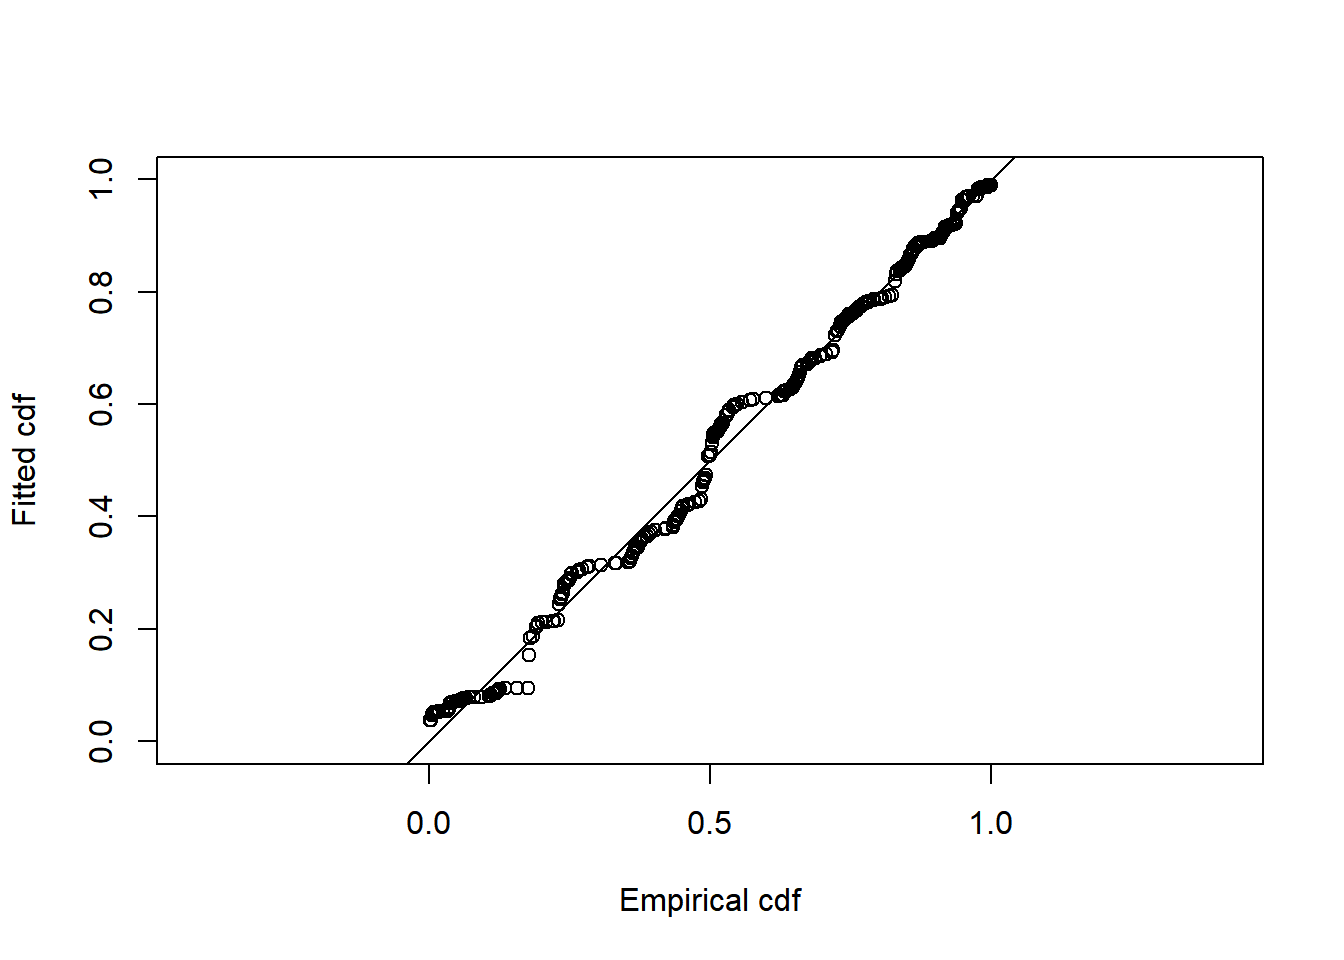
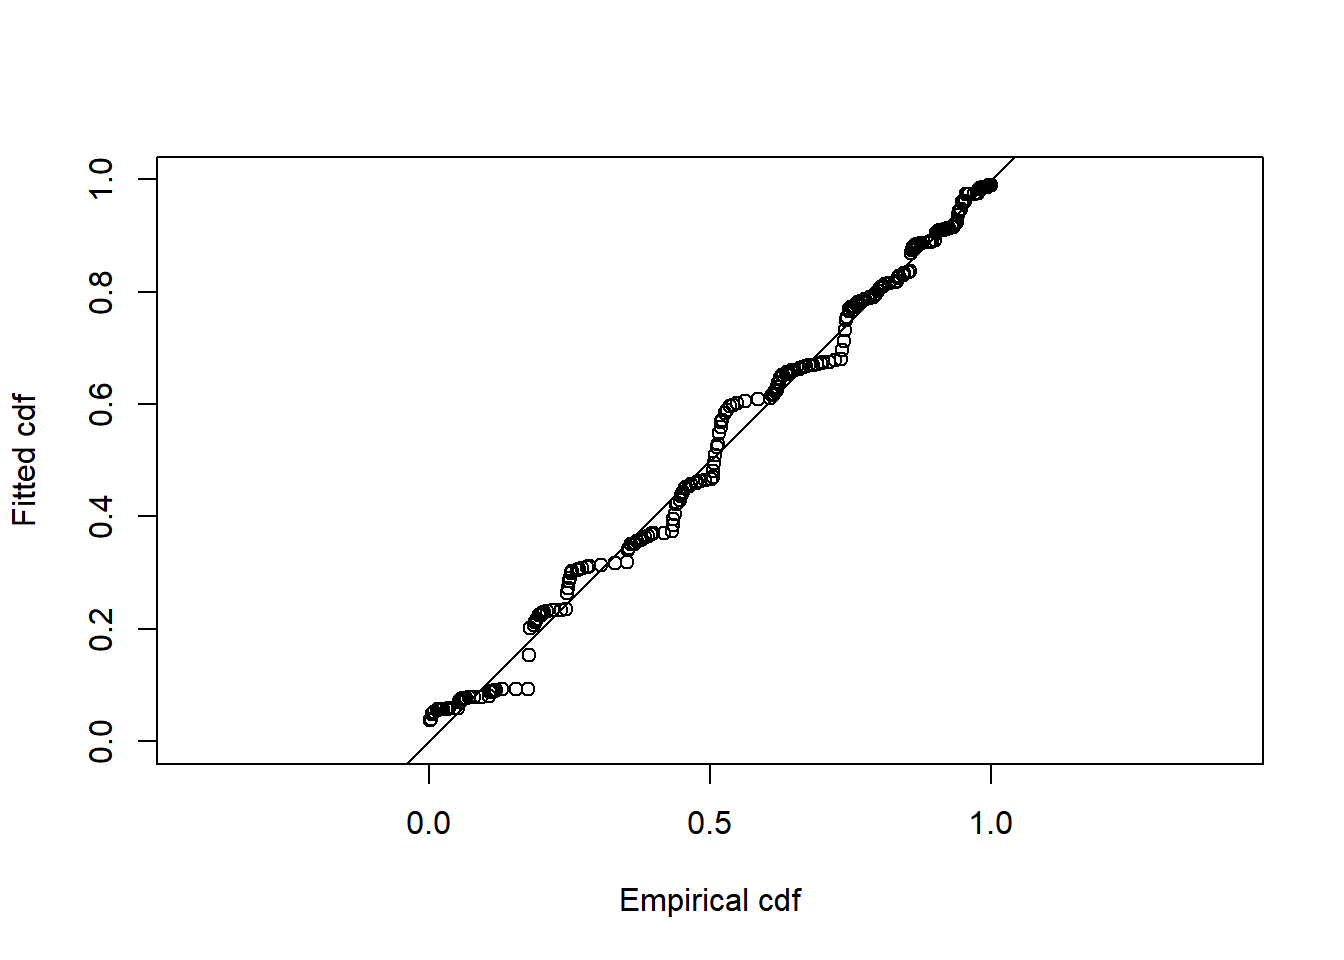
reports

diff --git a/docs/DelfinesComunes.html b/docs/DelfinesComunes.html
@@ -175,7 +175,11 @@ div.csl-indent {
   <li><a href="#efecto-de-tamaño-grupal" id="toc-efecto-de-tamaño-grupal" class="nav-link" data-scroll-target="#efecto-de-tamaño-grupal"><span class="header-section-number">3.6.3</span> Efecto de tamaño grupal</a></li>
   <li><a href="#efecto-de-embarcación" id="toc-efecto-de-embarcación" class="nav-link" data-scroll-target="#efecto-de-embarcación"><span class="header-section-number">3.6.4</span> Efecto de embarcación</a></li>
   </ul></li>
-  <li><a href="#conclusión-de-función-de-detección" id="toc-conclusión-de-función-de-detección" class="nav-link" data-scroll-target="#conclusión-de-función-de-detección"><span class="header-section-number">3.7</span> Conclusión de función de detección</a></li>
+  <li><a href="#conclusión-de-función-de-detección" id="toc-conclusión-de-función-de-detección" class="nav-link" data-scroll-target="#conclusión-de-función-de-detección"><span class="header-section-number">3.7</span> Conclusión de función de detección</a>
+  <ul class="collapse">
+  <li><a href="#qq-plots" id="toc-qq-plots" class="nav-link" data-scroll-target="#qq-plots"><span class="header-section-number">3.7.1</span> QQ plots</a></li>
+  <li><a href="#estimaciones-con-los-2-modelos" id="toc-estimaciones-con-los-2-modelos" class="nav-link" data-scroll-target="#estimaciones-con-los-2-modelos"><span class="header-section-number">3.7.2</span> Estimaciones con los 2 modelos</a></li>
+  </ul></li>
   </ul></li>
   <li><a href="#density-surface-models" id="toc-density-surface-models" class="nav-link" data-scroll-target="#density-surface-models"><span class="header-section-number">4</span> Density surface models</a></li>
   <li><a href="#referencias" id="toc-referencias" class="nav-link" data-scroll-target="#referencias"><span class="header-section-number">5</span> Referencias</a></li>
@@ -218,91 +222,99 @@ div.csl-indent {
 <tr class="header">
 <th style="text-align: right;" data-quarto-table-cell-role="th">Ano</th>
 <th style="text-align: right;" data-quarto-table-cell-role="th">Spring</th>
-<th style="text-align: right;" data-quarto-table-cell-role="th">Summer</th>
 <th style="text-align: right;" data-quarto-table-cell-role="th">Fall</th>
 <th style="text-align: right;" data-quarto-table-cell-role="th">Winter</th>
+<th style="text-align: right;" data-quarto-table-cell-role="th">Summer</th>
 <th style="text-align: right;" data-quarto-table-cell-role="th">TOTAL</th>
 </tr>
 </thead>
 <tbody>
 <tr class="odd">
-<td style="text-align: right;">2007</td>
-<td style="text-align: right;">3</td>
-<td style="text-align: right;">1</td>
+<td style="text-align: right;">2006</td>
 <td style="text-align: right;">2</td>
-<td style="text-align: right;">5</td>
-<td style="text-align: right;">11</td>
-</tr>
-<tr class="even">
-<td style="text-align: right;">2008</td>
-<td style="text-align: right;">1</td>
-<td style="text-align: right;">2</td>
-<td style="text-align: right;">3</td>
-<td style="text-align: right;">3</td>
-<td style="text-align: right;">9</td>
-</tr>
-<tr class="odd">
-<td style="text-align: right;">2009</td>
 <td style="text-align: right;">1</td>
 <td style="text-align: right;">2</td>
 <td style="text-align: right;">0</td>
-<td style="text-align: right;">3</td>
-<td style="text-align: right;">6</td>
+<td style="text-align: right;">5</td>
 </tr>
 <tr class="even">
+<td style="text-align: right;">2007</td>
+<td style="text-align: right;">3</td>
+<td style="text-align: right;">2</td>
+<td style="text-align: right;">5</td>
+<td style="text-align: right;">1</td>
+<td style="text-align: right;">11</td>
+</tr>
+<tr class="odd">
+<td style="text-align: right;">2008</td>
+<td style="text-align: right;">1</td>
+<td style="text-align: right;">3</td>
+<td style="text-align: right;">3</td>
+<td style="text-align: right;">2</td>
+<td style="text-align: right;">9</td>
+</tr>
+<tr class="even">
+<td style="text-align: right;">2009</td>
+<td style="text-align: right;">1</td>
+<td style="text-align: right;">0</td>
+<td style="text-align: right;">3</td>
+<td style="text-align: right;">2</td>
+<td style="text-align: right;">6</td>
+</tr>
+<tr class="odd">
 <td style="text-align: right;">2010</td>
 <td style="text-align: right;">0</td>
 <td style="text-align: right;">1</td>
-<td style="text-align: right;">1</td>
 <td style="text-align: right;">2</td>
+<td style="text-align: right;">1</td>
 <td style="text-align: right;">4</td>
 </tr>
-<tr class="odd">
+<tr class="even">
 <td style="text-align: right;">2013</td>
 <td style="text-align: right;">0</td>
-<td style="text-align: right;">1</td>
 <td style="text-align: right;">0</td>
 <td style="text-align: right;">0</td>
 <td style="text-align: right;">1</td>
-</tr>
-<tr class="even">
-<td style="text-align: right;">2014</td>
-<td style="text-align: right;">2</td>
-<td style="text-align: right;">0</td>
 <td style="text-align: right;">1</td>
-<td style="text-align: right;">2</td>
-<td style="text-align: right;">5</td>
 </tr>
 <tr class="odd">
-<td style="text-align: right;">2015</td>
-<td style="text-align: right;">4</td>
-<td style="text-align: right;">0</td>
+<td style="text-align: right;">2014</td>
 <td style="text-align: right;">2</td>
-<td style="text-align: right;">6</td>
-<td style="text-align: right;">12</td>
+<td style="text-align: right;">1</td>
+<td style="text-align: right;">2</td>
+<td style="text-align: right;">0</td>
+<td style="text-align: right;">5</td>
 </tr>
 <tr class="even">
+<td style="text-align: right;">2015</td>
+<td style="text-align: right;">4</td>
+<td style="text-align: right;">2</td>
+<td style="text-align: right;">6</td>
+<td style="text-align: right;">0</td>
+<td style="text-align: right;">12</td>
+</tr>
+<tr class="odd">
 <td style="text-align: right;">2016</td>
 <td style="text-align: right;">3</td>
-<td style="text-align: right;">5</td>
 <td style="text-align: right;">4</td>
+<td style="text-align: right;">5</td>
 <td style="text-align: right;">5</td>
 <td style="text-align: right;">17</td>
 </tr>
-<tr class="odd">
+<tr class="even">
 <td style="text-align: right;">2017</td>
 <td style="text-align: right;">3</td>
 <td style="text-align: right;">3</td>
-<td style="text-align: right;">3</td>
 <td style="text-align: right;">2</td>
+<td style="text-align: right;">3</td>
 <td style="text-align: right;">11</td>
 </tr>
-<tr class="even">
+<tr class="odd">
 <td style="text-align: right;">2018</td>
 <td style="text-align: right;">0</td>
+<td style="text-align: right;">0</td>
+<td style="text-align: right;">0</td>
 <td style="text-align: right;">1</td>
-<td style="text-align: right;">0</td>
-<td style="text-align: right;">0</td>
 <td style="text-align: right;">1</td>
 </tr>
 </tbody>
@@ -1084,11 +1096,96 @@ Conclusión: no utilizar embarcación como covariable.</p>
 No adjustment term<br>
 covariables: Beaufort state</p>
 <p>tamaño grupal??</p>
+<section id="qq-plots" class="level3" data-number="3.7.1">
+<h3 data-number="3.7.1" class="anchored" data-anchor-id="qq-plots"><span class="header-section-number">3.7.1</span> QQ plots</h3>
+<section id="beaufort-agrupado-tamaño-grupal" class="level4" data-number="3.7.1.1">
+<h4 data-number="3.7.1.1" class="anchored" data-anchor-id="beaufort-agrupado-tamaño-grupal"><span class="header-section-number">3.7.1.1</span> Beaufort (agrupado) + Tamaño grupal</h4>
 <div class="cell">
 <div class="cell-output-display">
 <p><img src="DelfinesComunes_files/figure-html/unnamed-chunk-39-1.png" class="img-fluid" width="672"></p>
 </div>
 </div>
+</section>
+<section id="beaufort-agrupado" class="level4" data-number="3.7.1.2">
+<h4 data-number="3.7.1.2" class="anchored" data-anchor-id="beaufort-agrupado"><span class="header-section-number">3.7.1.2</span> Beaufort (agrupado)</h4>
+<div class="cell">
+<div class="cell-output-display">
+<p><img src="DelfinesComunes_files/figure-html/unnamed-chunk-40-1.png" class="img-fluid" width="672"></p>
+</div>
+</div>
+</section>
+</section>
+<section id="estimaciones-con-los-2-modelos" class="level3" data-number="3.7.2">
+<h3 data-number="3.7.2" class="anchored" data-anchor-id="estimaciones-con-los-2-modelos"><span class="header-section-number">3.7.2</span> Estimaciones con los 2 modelos</h3>
+<section id="beaufort-agrupado-tamaño-grupal-1" class="level4" data-number="3.7.2.1">
+<h4 data-number="3.7.2.1" class="anchored" data-anchor-id="beaufort-agrupado-tamaño-grupal-1"><span class="header-section-number">3.7.2.1</span> Beaufort (agrupado) + Tamaño grupal</h4>
+<div class="cell">
+<div class="cell-output cell-output-stdout">
+<pre><code>
+Distance sampling analysis object
+
+Summary for ds object
+Number of observations :  632 
+Distance range         :  0  -  325 
+AIC                    :  2245.716 
+Optimisation           :  mrds (nlminb) 
+
+Detection function:
+ Hazard-rate key function 
+
+Detection function parameters 
+Scale coefficient(s): 
+                estimate        se
+(Intercept)    5.2235525 0.1003703
+size_sc        0.2604435 0.1891211
+beaufort_grp2 -0.3864780 0.1248732
+beaufort_grp3 -0.5717508 0.1332699
+
+Shape coefficient(s):  
+             estimate        se
+(Intercept) 0.8867266 0.1151604
+
+                        Estimate         SE         CV
+Average p              0.5255392  0.0242266 0.04609856
+N in covered region 1202.5744238 64.9564003 0.05401445</code></pre>
+</div>
+</div>
+</section>
+<section id="beaufort-agrupado-1" class="level4" data-number="3.7.2.2">
+<h4 data-number="3.7.2.2" class="anchored" data-anchor-id="beaufort-agrupado-1"><span class="header-section-number">3.7.2.2</span> Beaufort (agrupado)</h4>
+<div class="cell">
+<div class="cell-output cell-output-stdout">
+<pre><code>
+Distance sampling analysis object
+
+Summary for ds object
+Number of observations :  632 
+Distance range         :  0  -  325 
+AIC                    :  2253.389 
+Optimisation           :  mrds (nlminb) 
+
+Detection function:
+ Hazard-rate key function 
+
+Detection function parameters 
+Scale coefficient(s): 
+                estimate         se
+(Intercept)    5.2296956 0.09733819
+beaufort_grp2 -0.4187691 0.12595744
+beaufort_grp3 -0.6207951 0.13390909
+
+Shape coefficient(s):  
+            estimate        se
+(Intercept) 0.879054 0.1165229
+
+                        Estimate          SE         CV
+Average p              0.5310562  0.02448186 0.04610031
+N in covered region 1190.0811406 64.08894194 0.05385258</code></pre>
+</div>
+</div>
+<p>Las estimaciones con los 2 modelos difieren myu poco; la diferencia en el numero de animales es de 12 (i.e.&nbsp;1%).</p>
+</section>
+</section>
 </section>
 </section>
 <section id="density-surface-models" class="level1" data-number="4">
